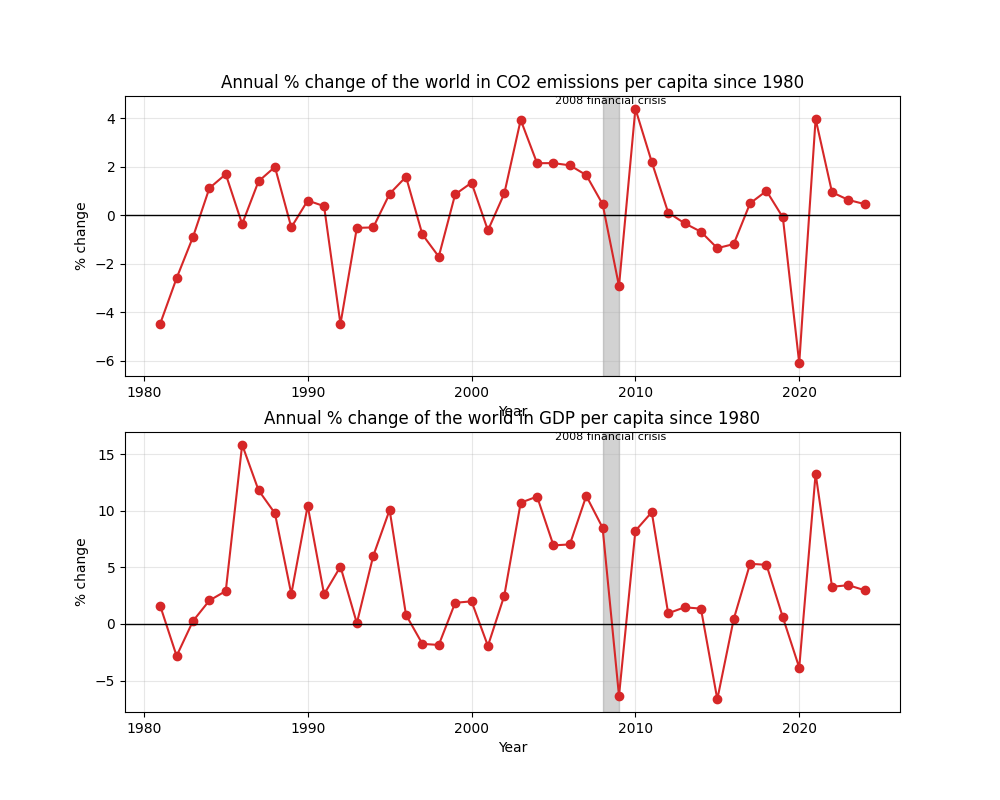
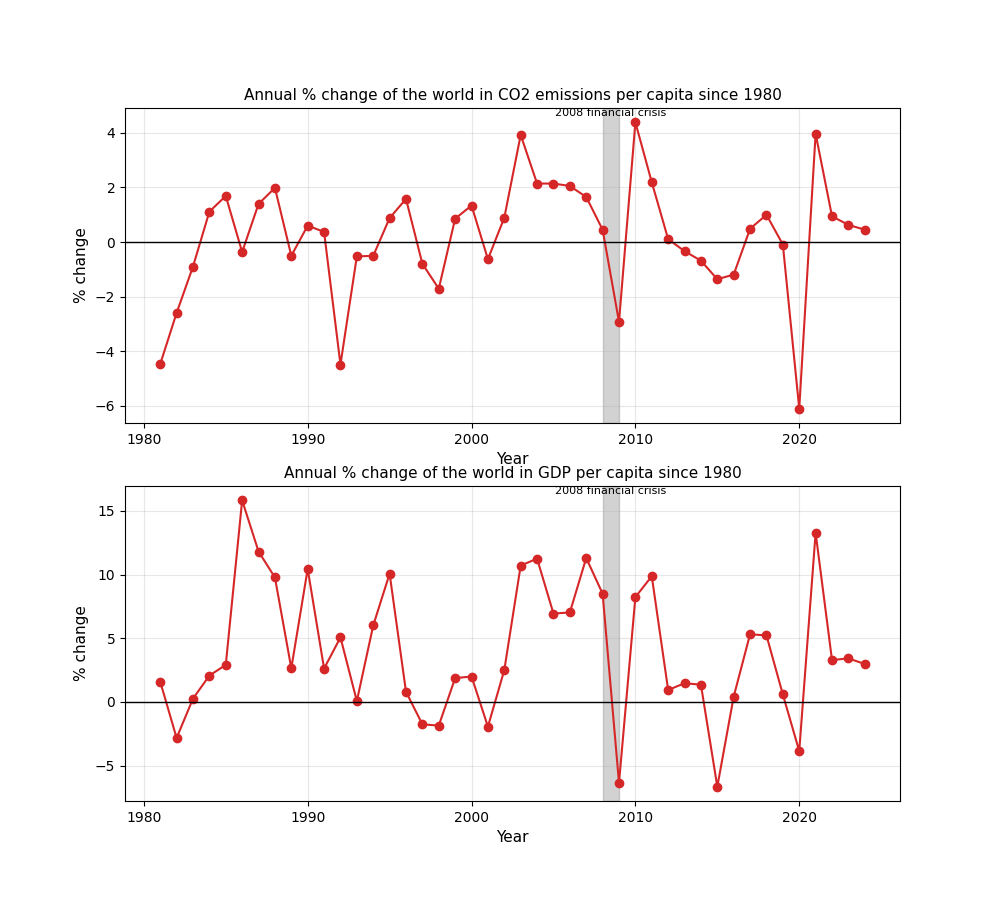
axes modified

diff --git a/Figures/annual_%_change.py b/Figures/annual_%_change.py
@@ -24,7 +24,7 @@ for country in countries:
 
 change=pd.concat(subplot, ignore_index=True)
 
-fig,axes = plt.subplots(2,1,figsize=(10,8))
+fig,axes = plt.subplots(2,1,figsize=(10,9))
 
 for country in countries:
     data_country = change[change["Country Name"]==country]
@@ -32,9 +32,9 @@ for country in countries:
                  marker="o",linewidth=1.5,color="tab:red")
 
 axes[0].axhline(0, color ="black", linewidth=1)
-axes[0].set_ylabel("% change")
-axes[0].set_xlabel("Year")
-axes[0].set_title("Annual % change of the world in CO2 emissions per capita since 1980")
+axes[0].set_ylabel("% change",fontsize=11)
+axes[0].set_xlabel("Year",fontsize=11)
+axes[0].set_title("Annual % change of the world in CO2 emissions per capita since 1980",fontsize=11)
 axes[0].grid(True, alpha=0.3)
 
 for country in countries:
@@ -43,9 +43,9 @@ for country in countries:
                  marker="o",linewidth=1.5,color="tab:red")
 
 axes[1].axhline(0,color="black",linewidth=1)
-axes[1].set_xlabel("Year")
-axes[1].set_ylabel("% change")
-axes[1].set_title("Annual % change of the world in GDP per capita since 1980")
+axes[1].set_xlabel("Year",fontsize=11)
+axes[1].set_ylabel("% change",fontsize=11)
+axes[1].set_title("Annual % change of the world in GDP per capita since 1980",fontsize=11)
 axes[1].grid(True,alpha=0.3)
 
 for ax in axes:
